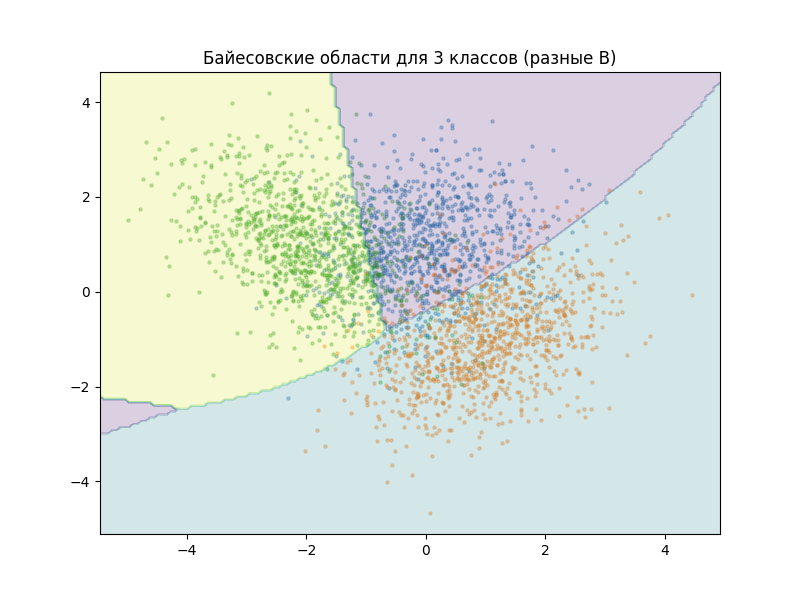
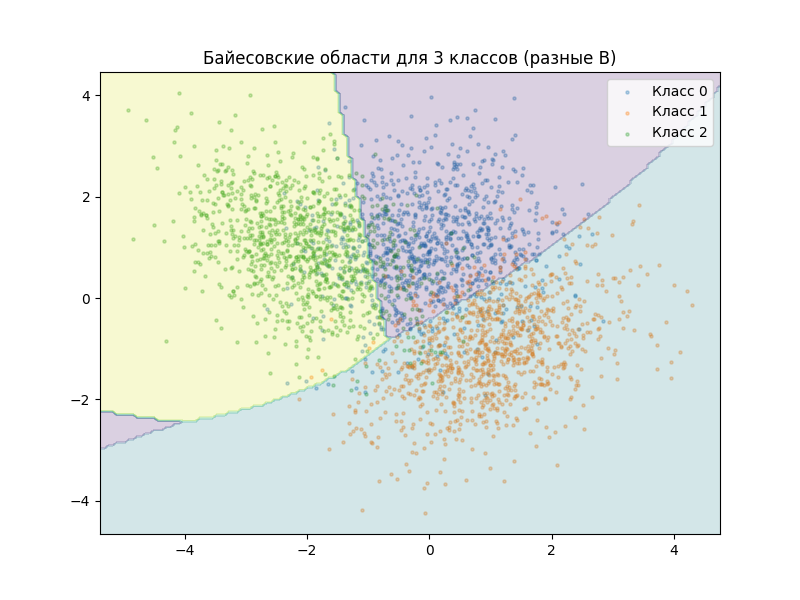
ready

diff --git a/Lab2/lab2.py b/Lab2/lab2.py
@@ -4,6 +4,8 @@ from scipy.stats import norm, multivariate_normal
 from numpy.linalg import det, inv
 from utility import *
 
+# ================== Вспомогательные функции ==================
+
 def bayes_normal_equal_B(x, M0, M1, B, P0=0.5, P1=0.5):
     """
     Дискриминантная функция для нормального распределения с равными матрицами ковариации.
@@ -26,6 +28,7 @@ def bayes_normal_unequal_B(x, M, B, P):
 def get_errors(X0, X1, classifier_func):
     """
     Экспериментальная оценка вероятностей ошибок.
+    X0, X1 – массивы признаков (N, d) для каждого класса.
     """
     err0 = 0
     for x in X0:
@@ -41,14 +44,18 @@ def get_errors(X0, X1, classifier_func):
     
     return p0, p1
 
+# ================== Задание 1 ==================
 def task1_bayes_equal_B():
     print("Выполнение задания 1: Байесовский классификатор (равные B, равные P)")
+    
+    # Загрузка данных из файлов, созданных lab1.py
+    X0 = np.load("normal_eq_1.npy")   # (N,2)
+    X1 = np.load("normal_eq_2.npy")
+    
+    # Истинные параметры распределений (известны из постановки)
     M0 = np.array([0.0, 1.0])
     M1 = np.array([1.0, -1.0])
     B = np.array([[1.0, 0.4], [0.4, 1.0]])
-    N = 1000
-    X0 = simulate_normal(M0, B, N)
-    X1 = simulate_normal(M1, B, N)
     
     def classify(x):
         d0, d1 = bayes_normal_equal_B(x, M0, M1, B)
@@ -60,8 +67,8 @@ def task1_bayes_equal_B():
     rho = mahalanobis_distance(M0, M1, B)
     p_err_analyt = norm.cdf(-0.5 * np.sqrt(rho))
     
-    print(f"Экспериментальные ошибки: p0={p0_exp:.4f}, p1={p1_exp:.4f}")
-    print(f"Аналитическая ошибка: p={p_err_analyt:.4f}")
+    print(f"\tЭкспериментальные ошибки: p0={p0_exp:.4f}, p1={p1_exp:.4f}")
+    print(f"\tАналитическая ошибка: p={p_err_analyt:.4f}")
     
     # Визуализация
     plt.figure(figsize=(8, 6))
@@ -83,36 +90,34 @@ def task1_bayes_equal_B():
     plt.savefig("task1.png")
     plt.close()
 
+# ================== Задание 2 ==================
 def task2_minimax_neyman():
     print("Выполнение задания 2: Минимаксный и Неймана-Пирсона")
+    
+    # Загрузка данных
+    X0 = np.load("normal_eq_1.npy")
+    X1 = np.load("normal_eq_2.npy")
+    
+    # Истинные параметры
     M0 = np.array([0.0, 1.0])
     M1 = np.array([1.0, -1.0])
     B = np.array([[1.0, 0.4], [0.4, 1.0]])
-    N = 1000
-    X0 = simulate_normal(M0, B, N)
-    X1 = simulate_normal(M1, B, N)
+    B_inv = inv(B)
     
-    # Минимаксный (для равных B и симметричных потерь это P0=0.5)
-   
     # Неймана-Пирсона (p0* = 0.05)
     p0_target = 0.05
-    # Логарифм отношения правдоподобия L(x) = ln(f1(x)/f0(x))
-    # Для равных B: L(x) = (M1-M0)^T B^-1 x - 0.5(M1^T B^-1 M1 - M0^T B^-1 M0)
-    # L(x) распределен нормально. При H0: L(x) ~ N(-0.5*rho, rho), где rho - Махаланобис.
     rho = mahalanobis_distance(M0, M1, B)
-    # Ищем порог h такой, что P(L(x) > h | H0) = p0_target
-    # h = sqrt(rho) * inv_cdf(1 - p0_target) - 0.5 * rho
+    # Порог для логарифма отношения правдоподобия
     h = np.sqrt(rho) * norm.ppf(1 - p0_target) - 0.5 * rho
     
     def classify_np(x):
-        B_inv = inv(B)
         L = (M1 - M0).T @ B_inv @ x - 0.5 * (M1.T @ B_inv @ M1 - M0.T @ B_inv @ M0)
         return 1 if L > h else 0
     
     p0_exp, p1_exp = get_errors(X0, X1, classify_np)
-    print(f"Нейман-Пирсон (цель p0=0.05): эксп p0={p0_exp:.4f}, p1={p1_exp:.4f}")
+    print(f"\tНейман-Пирсон (цель p0=0.05): эксп p0={p0_exp:.4f}, p1={p1_exp:.4f}")
     
-    # Визуализация
+    # Визуализация (сравнение с байесовской границей)
     plt.figure(figsize=(8, 6))
     plt.scatter(X0[:, 0], X0[:, 1], s=5, alpha=0.5, label="Класс 0")
     plt.scatter(X1[:, 0], X1[:, 1], s=5, alpha=0.5, label="Класс 1")
@@ -122,31 +127,37 @@ def task2_minimax_neyman():
     xx, yy = np.meshgrid(np.linspace(x_min, x_max, 100), np.linspace(y_min, y_max, 100))
     Z_bayes = np.zeros(xx.shape)
     Z_np = np.zeros(xx.shape)
-    B_inv = inv(B)
     for i in range(xx.shape[0]):
         for j in range(xx.shape[1]):
             pos = np.array([xx[i, j], yy[i, j]])
-            d0, d1 = bayes_normal_equal_B(pos, M0, M1, B)
+            d0, d1 = bayes_normal_equal_B(pos, M0, M1, B, P0=0.5, P1=0.5)
             Z_bayes[i, j] = d1 - d0
             L = (M1 - M0).T @ B_inv @ pos - 0.5 * (M1.T @ B_inv @ M1 - M0.T @ B_inv @ M0)
             Z_np[i, j] = L - h
-            
-    c1 = plt.contour(xx, yy, Z_bayes, levels=[0], colors='blue', linestyles='dashed')
-    c2 = plt.contour(xx, yy, Z_np, levels=[0], colors='red')
     
-    # Create proxy artists for legend
+    plt.contour(xx, yy, Z_bayes, levels=[0], colors='blue', linestyles='dashed')
+    plt.contour(xx, yy, Z_np, levels=[0], colors='red')
+    
     from matplotlib.lines import Line2D
     legend_elements = [
         Line2D([0], [0], color='blue', lw=2, linestyle='--', label='Байес'),
         Line2D([0], [0], color='red', lw=2, label='Нейман-Пирсон')
     ]
     plt.legend(handles=legend_elements)
-    plt.title("Границы Байеса (синий) и Неймана-Пирсона (красный)")
+    plt.title("Границы Байеса и Неймана-Пирсона")
     plt.savefig("task2.png")
     plt.close()
 
+# ================== Задание 3 ==================
 def task3_unequal_B():
     print("Выполнение задания 3: Байес для 3 классов (разные B)")
+    
+    # Загрузка данных
+    X0 = np.load("normal_3_1.npy")
+    X1 = np.load("normal_3_2.npy")
+    X2 = np.load("normal_3_3.npy")
+    
+    # Истинные параметры (из lab1)
     M0 = np.array([0.0, 1.0])
     M1 = np.array([1.0, -1.0])
     M2 = np.array([-2.0, 1.0])
@@ -154,10 +165,6 @@ def task3_unequal_B():
     B1 = np.array([[1.0, 0.4], [0.4, 1.0]])
     B2 = np.array([[1.0, -0.4], [-0.4, 1.0]])
     P = [1/3, 1/3, 1/3]
-    N = 1000
-    X0 = simulate_normal(M0, B0, N)
-    X1 = simulate_normal(M1, B1, N)
-    X2 = simulate_normal(M2, B2, N)
     
     def classify(x):
         d0 = bayes_normal_unequal_B(x, M0, B0, P[0])
@@ -166,21 +173,37 @@ def task3_unequal_B():
         return np.argmax([d0, d1, d2])
     
     # Оценка ошибок
+    N = len(X0)
     errs = [0, 0, 0]
-    for x in X0: 
+    for x in X0:
         if classify(x) != 0: errs[0] += 1
-    for x in X1: 
+    for x in X1:
         if classify(x) != 1: errs[1] += 1
-    for x in X2: 
+    for x in X2:
         if classify(x) != 2: errs[2] += 1
     
-    print(f"Ошибки: p0={errs[0]/N:.4f}, p1={errs[1]/N:.4f}, p2={errs[2]/N:.4f}")
+    print(f"\tЭкспериментальные ошибки: p0={errs[0]/N:.4f}, p1={errs[1]/N:.4f}, p2={errs[2]/N:.4f}")
+    
+    # Относительная погрешность для оценок (при N=1000)
+    for i, err in enumerate(errs):
+        p_est = err / N
+        rel_err = np.sqrt((1 - p_est) / (N * p_est)) if p_est > 0 else np.inf
+        print(f"\tОтносительная погрешность для p{i}: {rel_err:.4f}")
+    
+    # Необходимый объем выборки для погрешности не более 5%
+    # ε = sqrt((1-p)/(N p)) → N = (1-p)/(ε² p)
+    target_eps = 0.05
+    for i, err in enumerate(errs):
+        p_est = err / N
+        if p_est > 0:
+            needed_N = (1 - p_est) / (target_eps**2 * p_est)
+            print(f"\tДля p{i} (={p_est:.4f}) объем выборки для ε≤5%: N≈{needed_N:.0f}")
     
     # Визуализация
     plt.figure(figsize=(8, 6))
-    plt.scatter(X0[:, 0], X0[:, 1], s=5, alpha=0.3)
-    plt.scatter(X1[:, 0], X1[:, 1], s=5, alpha=0.3)
-    plt.scatter(X2[:, 0], X2[:, 1], s=5, alpha=0.3)
+    plt.scatter(X0[:, 0], X0[:, 1], s=5, alpha=0.3, label="Класс 0")
+    plt.scatter(X1[:, 0], X1[:, 1], s=5, alpha=0.3, label="Класс 1")
+    plt.scatter(X2[:, 0], X2[:, 1], s=5, alpha=0.3, label="Класс 2")
     
     x_min, x_max = plt.xlim()
     y_min, y_max = plt.ylim()
@@ -189,67 +212,66 @@ def task3_unequal_B():
     for i in range(xx.shape[0]):
         for j in range(xx.shape[1]):
             Z[i, j] = classify(np.array([xx[i, j], yy[i, j]]))
-            
+    
     plt.contourf(xx, yy, Z, alpha=0.2, cmap='viridis')
     plt.title("Байесовские области для 3 классов (разные B)")
+    plt.legend()
     plt.savefig("task3.png")
     plt.close()
 
+# ================== Задание 4 ==================
 def task4_binary():
     print("Выполнение задания 4: Бинарные векторы")
-    rep0 = representative_Sch()
+    
+    # Загрузка данных из файлов lab1
+    Xbin_1 = np.load("bin_class1_Sch.npy")   # форма (81, N)
+    Xbin_2 = np.load("bin_class2_SM.npy")    # форма (81, N)
+    # Транспонируем, чтобы получить (N, 81)
+    X0 = Xbin_1.T
+    X1 = Xbin_2.T
+    
+    # Параметры модели (из lab1)
+    rep0 = representative_Sch()  # (9,9) -> flatten
     rep1 = representative_SM()
     p = 0.3
-    N = 1000
-    X0 = generate_binary_samples(rep0, N, p).T # (N, 81)
-    X1 = generate_binary_samples(rep1, N, p).T # (N, 81)
-    
-    # Байесовский классификатор для независимых бинарных признаков
-    # d(x) = sum(x_i * ln(p_i/(1-p_i)) + ln((1-p_i)/(1-q_i))) + ln(P1/P0)
-    # Здесь p_i = P(x_i=1|H1), q_i = P(x_i=1|H0)
-    # В нашей модели: если rep_i = 1, то P(x=1) = 1-p, если rep_i = 0, то P(x=1) = p
     
     r0 = rep0.flatten()
     r1 = rep1.flatten()
     
-    def get_prob(rep, p_flip):
-        return (1-p_flip) if rep == 1 else p_flip
-
+    def get_prob(rep_bit, p_flip):
+        return (1 - p_flip) if rep_bit == 1 else p_flip
+    
     probs0 = np.array([get_prob(r, p) for r in r0])
     probs1 = np.array([get_prob(r, p) for r in r1])
     
     def classify_bin(x):
-        # f(x|H) = product( prob_i^x_i * (1-prob_i)^(1-x_i) )
-        # ln f(x|H) = sum( x_i * ln(prob_i) + (1-x_i) * ln(1-prob_i) )
+        # Логарифмы правдоподобия
         log_f0 = np.sum(x * np.log(probs0) + (1 - x) * np.log(1 - probs0))
         log_f1 = np.sum(x * np.log(probs1) + (1 - x) * np.log(1 - probs1))
         return 0 if log_f0 > log_f1 else 1
-
+    
     p0_exp, p1_exp = get_errors(X0, X1, classify_bin)
-    print(f"Бинарный Байес: эксп p0={p0_exp:.4f}, p1={p1_exp:.4f}")
+    print(f"\tЭкспериментальные ошибки: p0={p0_exp:.4f}, p1={p1_exp:.4f}")
     
-    # Аналитическая оценка (через ЦПТ)
-    # m = E[ln(f1/f0) | H0], sigma^2 = D[ln(f1/f0) | H0]
-    L_bits = np.log(probs1 / probs0) * 1 + np.log((1 - probs1) / (1 - probs0)) * 0 # if x=1
-    # Actually L(x) = sum( x_i * ln(p1_i/p0_i) + (1-x_i) * ln((1-p1_i)/(1-p0_i)) )
-    
+    # Аналитическая оценка через ЦПТ
     def get_stats(target_probs, p0_vec, p1_vec):
         L1 = np.log(p1_vec / p0_vec)
         L0 = np.log((1 - p1_vec) / (1 - p0_vec))
-        # E[L_i] = target_prob_i * L1_i + (1-target_prob_i) * L0_i
-        # D[L_i] = target_prob_i * L1_i^2 + (1-target_prob_i) * L0_i^2 - E[L_i]^2
         e_i = target_probs * L1 + (1 - target_probs) * L0
         var_i = target_probs * (L1**2) + (1 - target_probs) * (L0**2) - (e_i**2)
         return np.sum(e_i), np.sqrt(np.sum(var_i))
-
+    
     m0, s0 = get_stats(probs0, probs0, probs1)
     m1, s1 = get_stats(probs1, probs0, probs1)
     
-    p0_analyt = 1 - norm.cdf(-m0 / s0)
-    p1_analyt = norm.cdf(-m1 / s1)
+    # Порог λ = ln(P(Ω0)/P(Ω1)) = ln(1) = 0 (априорные вероятности равны)
+    lamb = 0.0
+    p0_analyt = 1 - norm.cdf((lamb - m0) / s0)
+    p1_analyt = norm.cdf((lamb - m1) / s1)
     
-    print(f"Бинарный Байес: аналит p0={p0_analyt:.4f}, p1={p1_analyt:.4f}")
+    print(f"\tАналитические оценки (ЦПТ): p0={p0_analyt:.4f}, p1={p1_analyt:.4f}")
 
+# ================== Главная функция ==================
 if __name__ == "__main__":
     task1_bayes_equal_B()
     task2_minimax_neyman()
